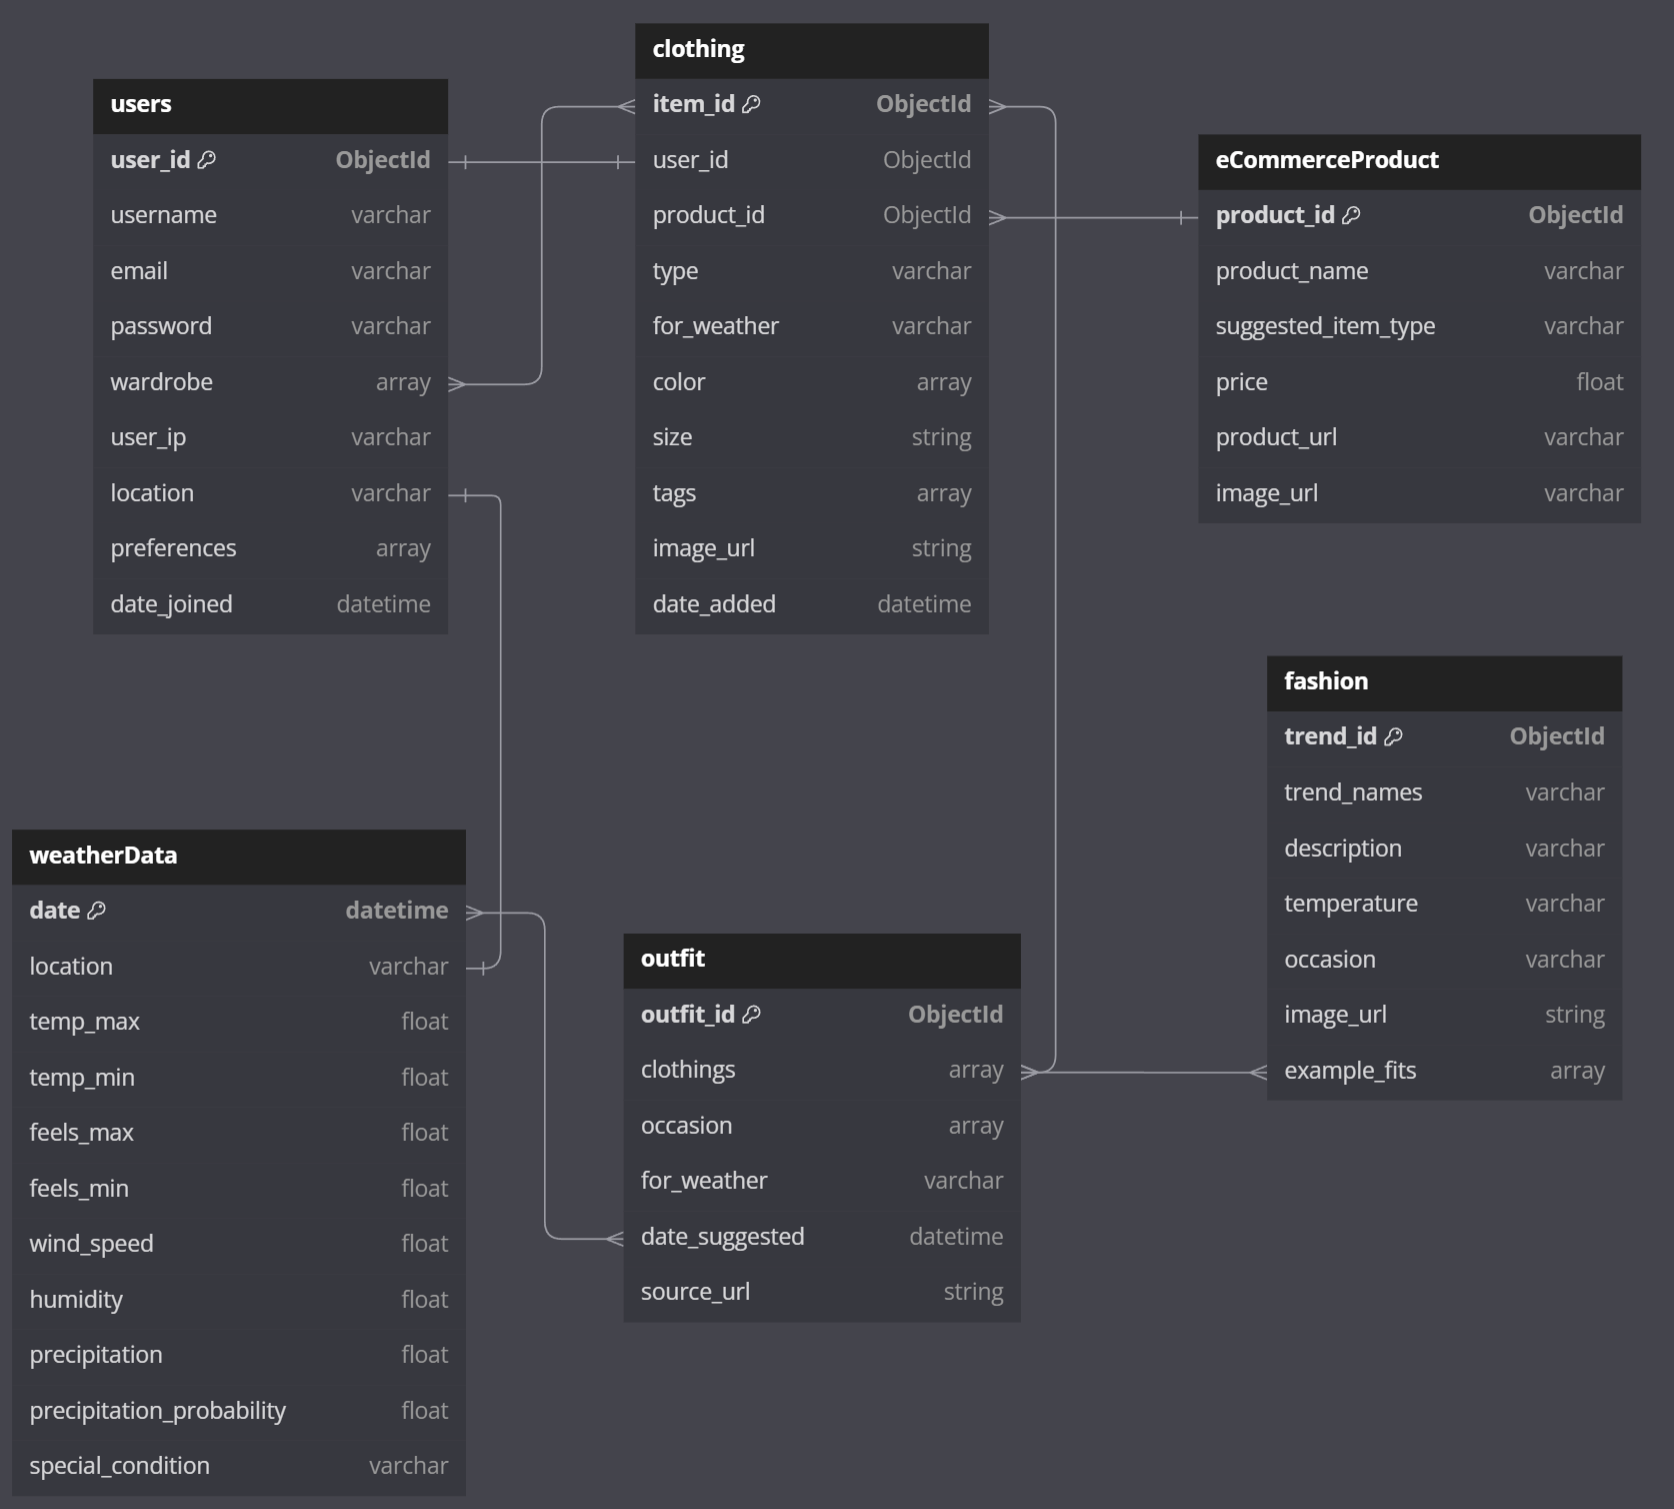
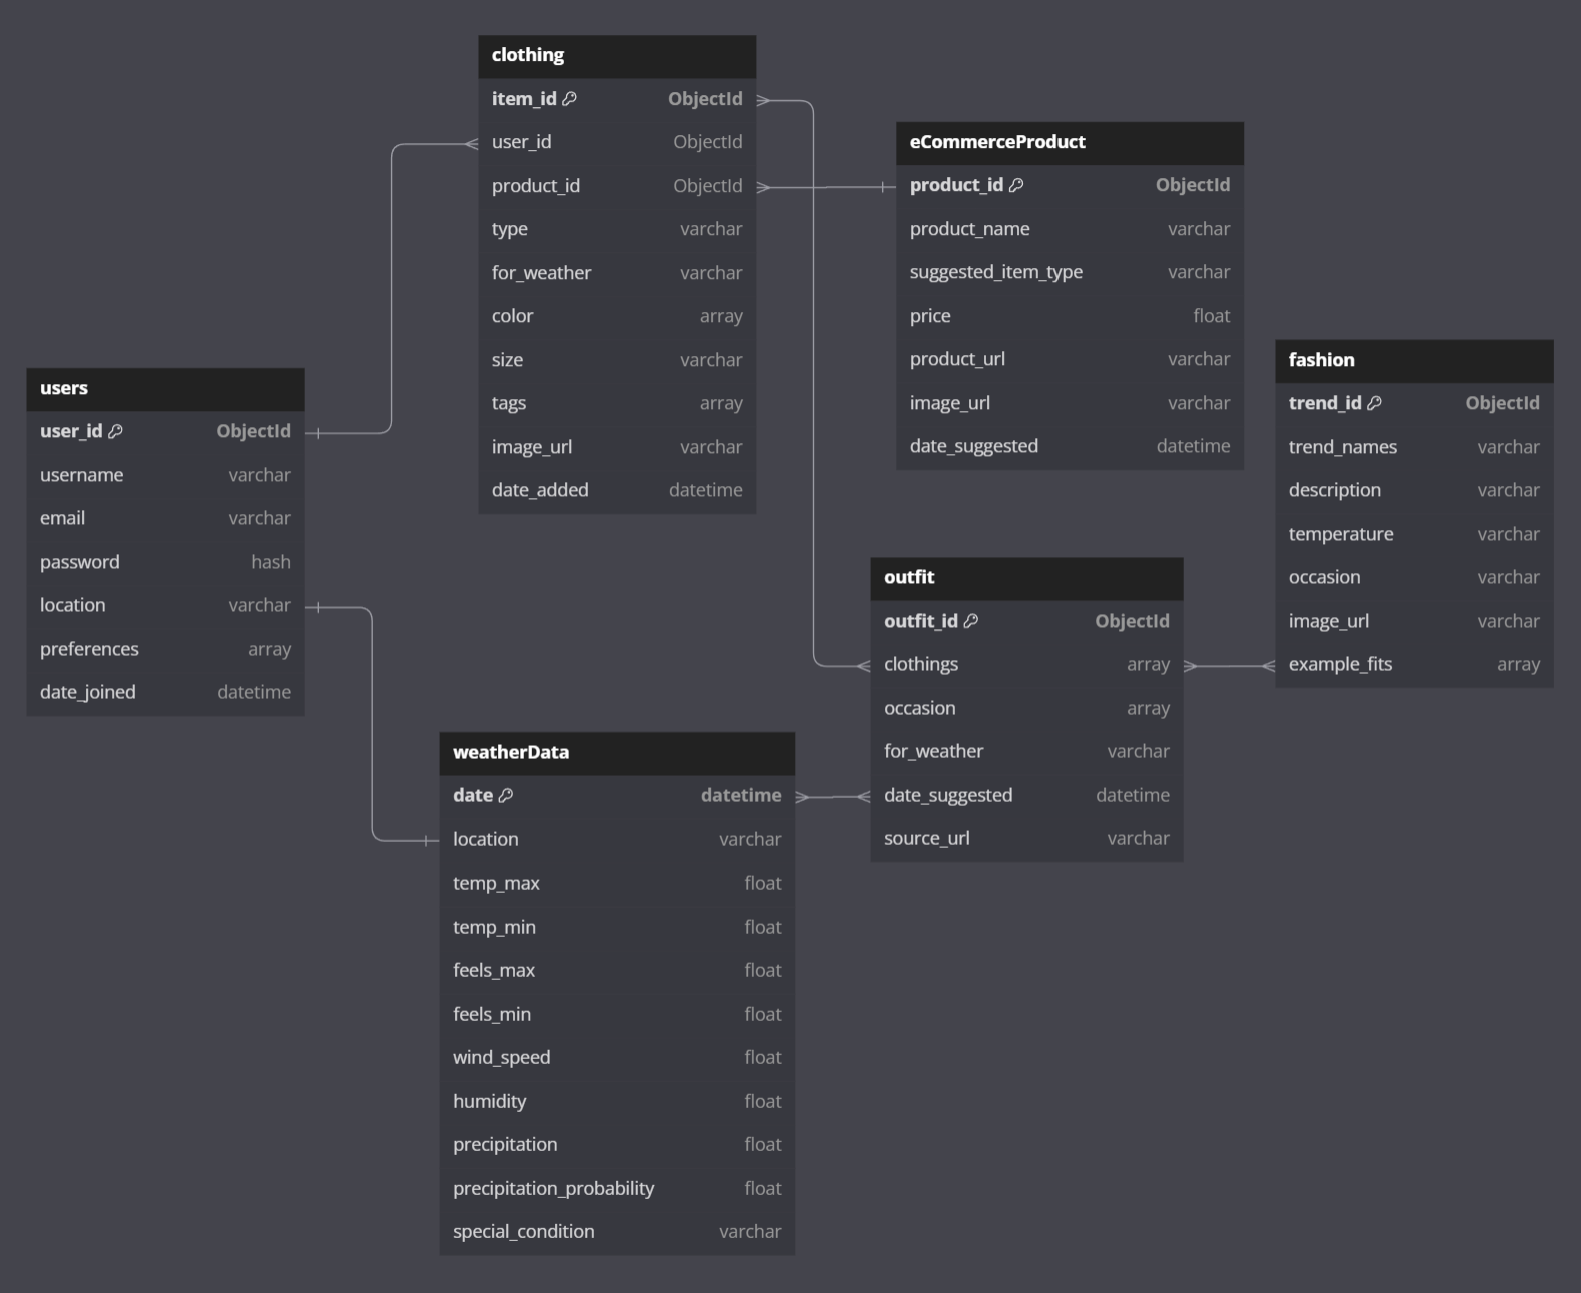
edits to schema

diff --git a/DB.md b/DB.md
@@ -92,11 +92,13 @@ Stores fashion trend data that helps inform outfit recommendations.
 
 ### **Relationships**
 - **User** to **Clothing**: One-to-Many (a user can have multiple clothing items in their wardrobe).
-- **Clothing** to **eCommerceProduct**: One-to-One (a clothing item may have a related e-commerce product).
-- **Outfit** to **Clothing**: One-to-Many (an outfit consists of multiple wardrobe items).
-- **Outfit** to **WeatherData**: One-to-One (outfits are suggested based on specific weather conditions).
-- **Outfit** to **Fashion**: Many-to-One (outfits may follow a specific fashion trend).
+- **Clothing** to **eCommerceProduct**: Many-to-One (many clothing items may share a related e-commerce product).
+- **Outfit** to **Clothing**: Many-to-Many (an outfit consists of multiple wardrobe items, clothing items can suit multiple outfits).
+- **Outfit** to **WeatherData**: Many-to-One (outfits are suggested based on specific weather conditions).
 - **WeatherData** to **Outfit**: Many-to-One (outfit suggestions are influenced by weather data).
+- **Outfit** to **Fashion**: Many-to-One (outfits may follow a specific fashion trend).
+- **Fasion** to **Outfit**: Many-to-One (fashion trends may share the same outfit).
+
 
 ### Why We Chose SQL for LazYdrobe
 
